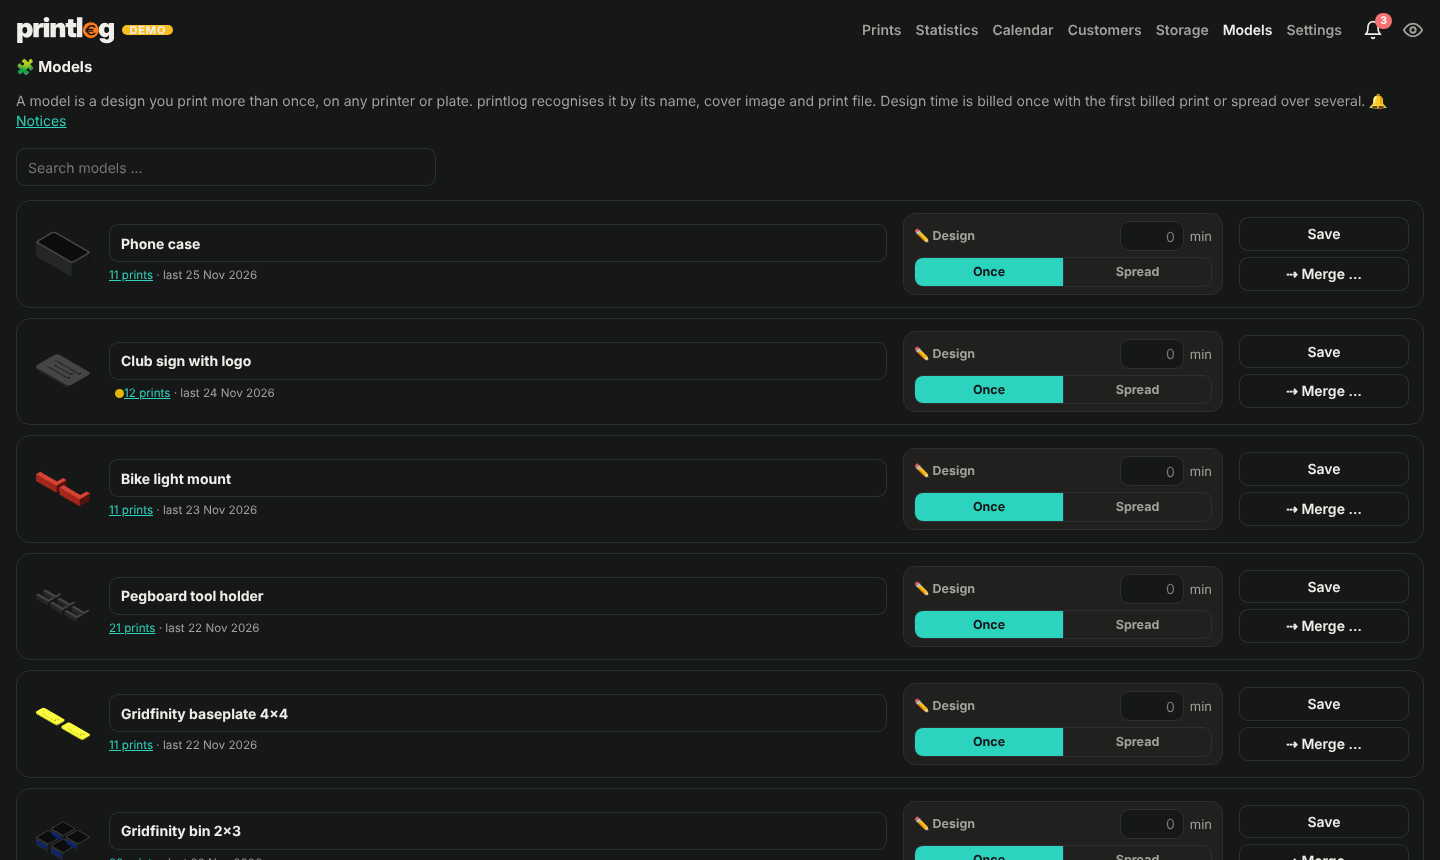
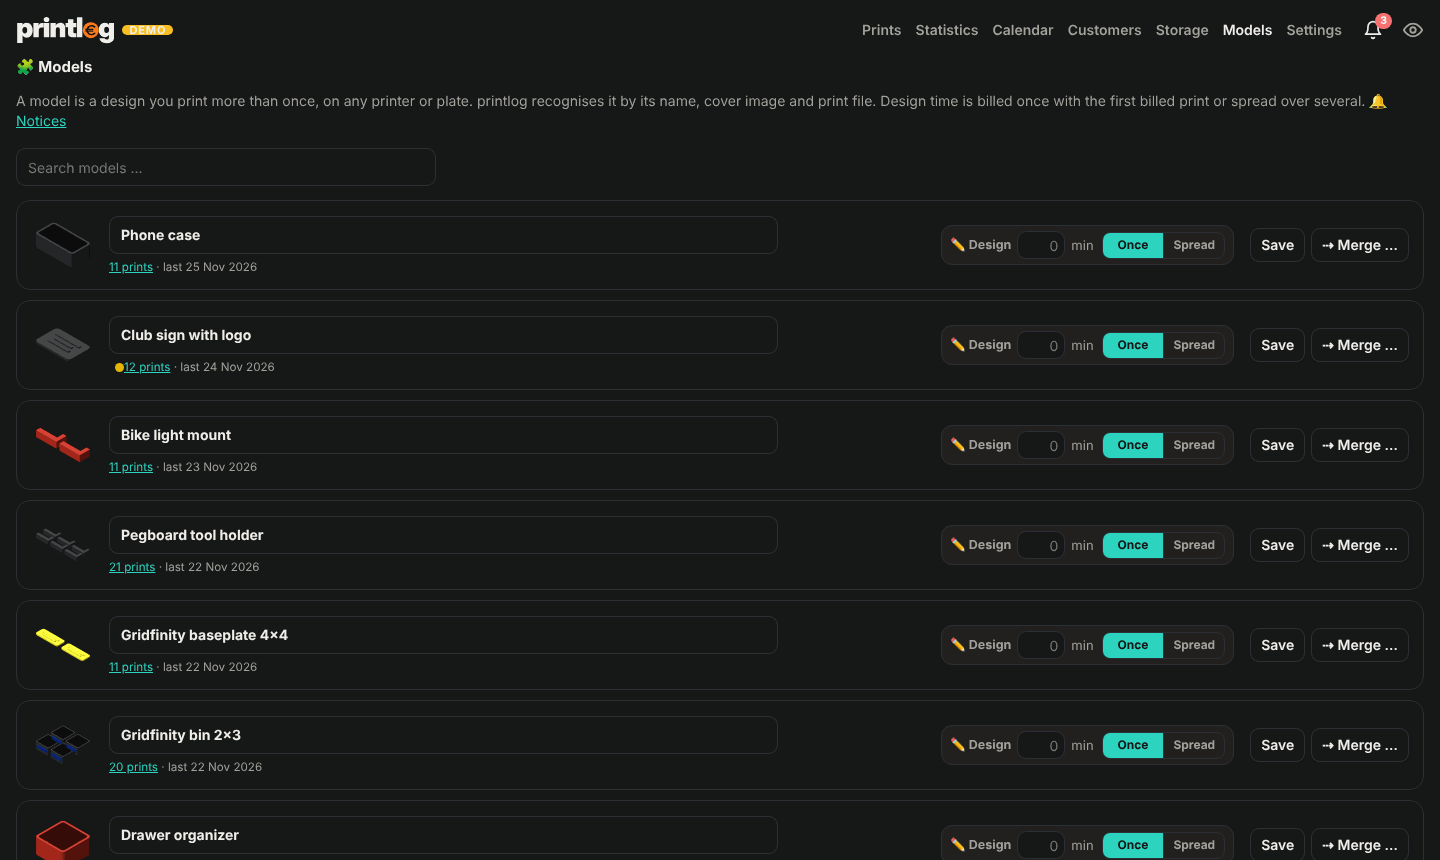
Modelle-Seite: Designkasten kompakt in einer Zeile
Claude-Session: https://claude.ai/code/session_016QS8kLCpfAFka2Kzu3XCw3

Changed region(s): [[0.0, 0.2419, 0.9688, 1.0]]

diff --git a/app/models.py b/app/models.py
@@ -697,23 +697,23 @@ CSS = """
  border-radius:14px;padding:12px 14px}
 .mdrow.mdhl{box-shadow:0 0 0 2px var(--accent)}
 .mimg img,.mimg .ph{width:64px;height:64px;border-radius:10px;object-fit:cover;display:block;background:var(--bg)}
-.mdf{display:grid;grid-template-columns:minmax(0,1fr) 320px 170px;gap:16px;align-items:center;margin:0}
+.mdf{display:grid;grid-template-columns:minmax(0,1fr) 440px auto;gap:16px;align-items:center;margin:0}
 .mdname input{font-weight:700;width:100%;box-sizing:border-box}.mdname small{display:block;margin-top:5px}
 .als{display:flex;flex-wrap:wrap;gap:4px;margin-top:6px}.als:empty{display:none}
 .al{display:inline-flex;align-items:center;gap:2px;border:1px solid var(--line);border-radius:999px;padding:0 2px 0 9px;font-size:12px;color:var(--muted);margin:0}
 .al button{border:0;background:none;color:var(--muted);cursor:pointer;padding:2px 6px;min-height:0}
-.mdbox{display:flex;flex-direction:column;gap:6px;border:1px solid var(--line);border-radius:12px;padding:7px 10px;background:color-mix(in srgb,var(--fg) 3%,transparent)}
-.mdes{display:flex;align-items:center;justify-content:space-between;gap:10px}.mdes .lb{font-size:12.5px;color:var(--muted);font-weight:700;white-space:nowrap}
-.mdes .mv{display:flex;align-items:center;gap:6px;font-size:13px;color:var(--muted)}.mdes input{width:64px;text-align:right;padding:4px 8px;min-height:0;height:30px}
+.mdbox{justify-self:end;display:flex;align-items:center;gap:8px;border:1px solid var(--line);border-radius:11px;padding:5px 8px;background:color-mix(in srgb,var(--fg) 3%,transparent)}
+.mdes{display:flex;align-items:center;gap:6px}.mdes .lb{font-size:12.5px;color:var(--muted);font-weight:700;white-space:nowrap}
+.mdes .mv{display:flex;align-items:center;gap:6px;font-size:13px;color:var(--muted)}.mdes input{width:48px;text-align:right;padding:3px 6px;min-height:0;height:28px}
 .mr2{display:flex;align-items:center;gap:8px}
-.mseg{flex:1;display:grid;grid-template-columns:1fr 1fr;border:1px solid var(--line);border-radius:9px;overflow:hidden;min-width:150px}
+.mseg{display:grid;grid-template-columns:1fr 1fr;border:1px solid var(--line);border-radius:8px;overflow:hidden}
 .mseg label{position:relative;cursor:pointer}.mseg input{position:absolute;opacity:0;pointer-events:none}
-.mseg span{display:block;text-align:center;padding:5px 8px;font-size:12.5px;font-weight:700;color:var(--muted)}
+.mseg span{display:block;text-align:center;padding:4px 9px;font-size:12px;font-weight:700;color:var(--muted)}
 .mseg label+label span{border-left:1px solid var(--line)}
 .mseg input:checked+span{background:var(--accent);color:var(--bg)}.mseg input:focus-visible+span{outline:2px solid var(--accent);outline-offset:-2px}
 .mr2 .spn{display:flex;align-items:center;gap:5px;font-size:12.5px;color:var(--muted);white-space:nowrap}.mr2 .spn[hidden]{display:none}
-.mr2 .spn input{width:44px;text-align:right;padding:4px 6px;min-height:0;height:28px}
-.mact{display:flex;flex-direction:column;gap:6px}.mact .btn{min-height:0;padding:6px 10px}.mact .btn{width:100%;justify-content:center}
+.mr2 .spn input{width:38px;text-align:right;padding:4px 6px;min-height:0;height:28px}
+.mact{display:flex;gap:6px}.mact .btn{min-height:0;padding:6px 10px;white-space:nowrap}.mact .btn{width:100%;justify-content:center}
 .mdf.dirty .msave{background:var(--accent);color:var(--bg);border-color:var(--accent)}
 .mmpop{position:absolute;z-index:70;width:360px;max-width:calc(100vw - 16px);background:var(--card);border:1px solid var(--line);border-radius:16px;
  box-shadow:0 24px 70px rgba(0,0,0,.45);padding:12px;font-size:14px;display:flex;flex-direction:column}
@@ -727,8 +727,9 @@ CSS = """
 .mmpop .it img,.mmpop .it .ph{width:34px;height:34px;border-radius:8px;object-fit:cover;background:var(--bg);flex:none}
 .mmpop .it .n{overflow:hidden;text-overflow:ellipsis;white-space:nowrap}.mmpop .it small{margin-left:auto;color:var(--muted);font-weight:500;font-size:12px;white-space:nowrap;padding-left:8px}
 .mmpop .none{color:var(--muted);padding:10px 8px}.mmf{display:none}
-@media (max-width:1100px){.mdf{grid-template-columns:minmax(0,1fr) 280px}.mact{grid-column:1/-1;flex-direction:row}}
+@media (max-width:1180px){.mdf{grid-template-columns:minmax(0,1fr) auto}.mact{grid-column:1/-1;justify-content:flex-end}.mact .btn{width:auto}}
 @media (max-width:760px){.mhint{flex-direction:column}.mhj{width:auto}
+ .mdbox{flex-wrap:wrap;justify-self:stretch}.mact{justify-content:stretch}.mact .btn{flex:1}
  .mdrow{grid-template-columns:52px minmax(0,1fr);align-items:start}.mimg img,.mimg .ph{width:52px;height:52px}
  .mdf{grid-template-columns:minmax(0,1fr)}.mdf>*{min-width:0}
  .mmpop{position:fixed;left:0!important;right:0;bottom:0;top:auto!important;width:auto;max-width:none;border-radius:22px 22px 0 0;padding:10px 16px calc(18px + env(safe-area-inset-bottom))}
